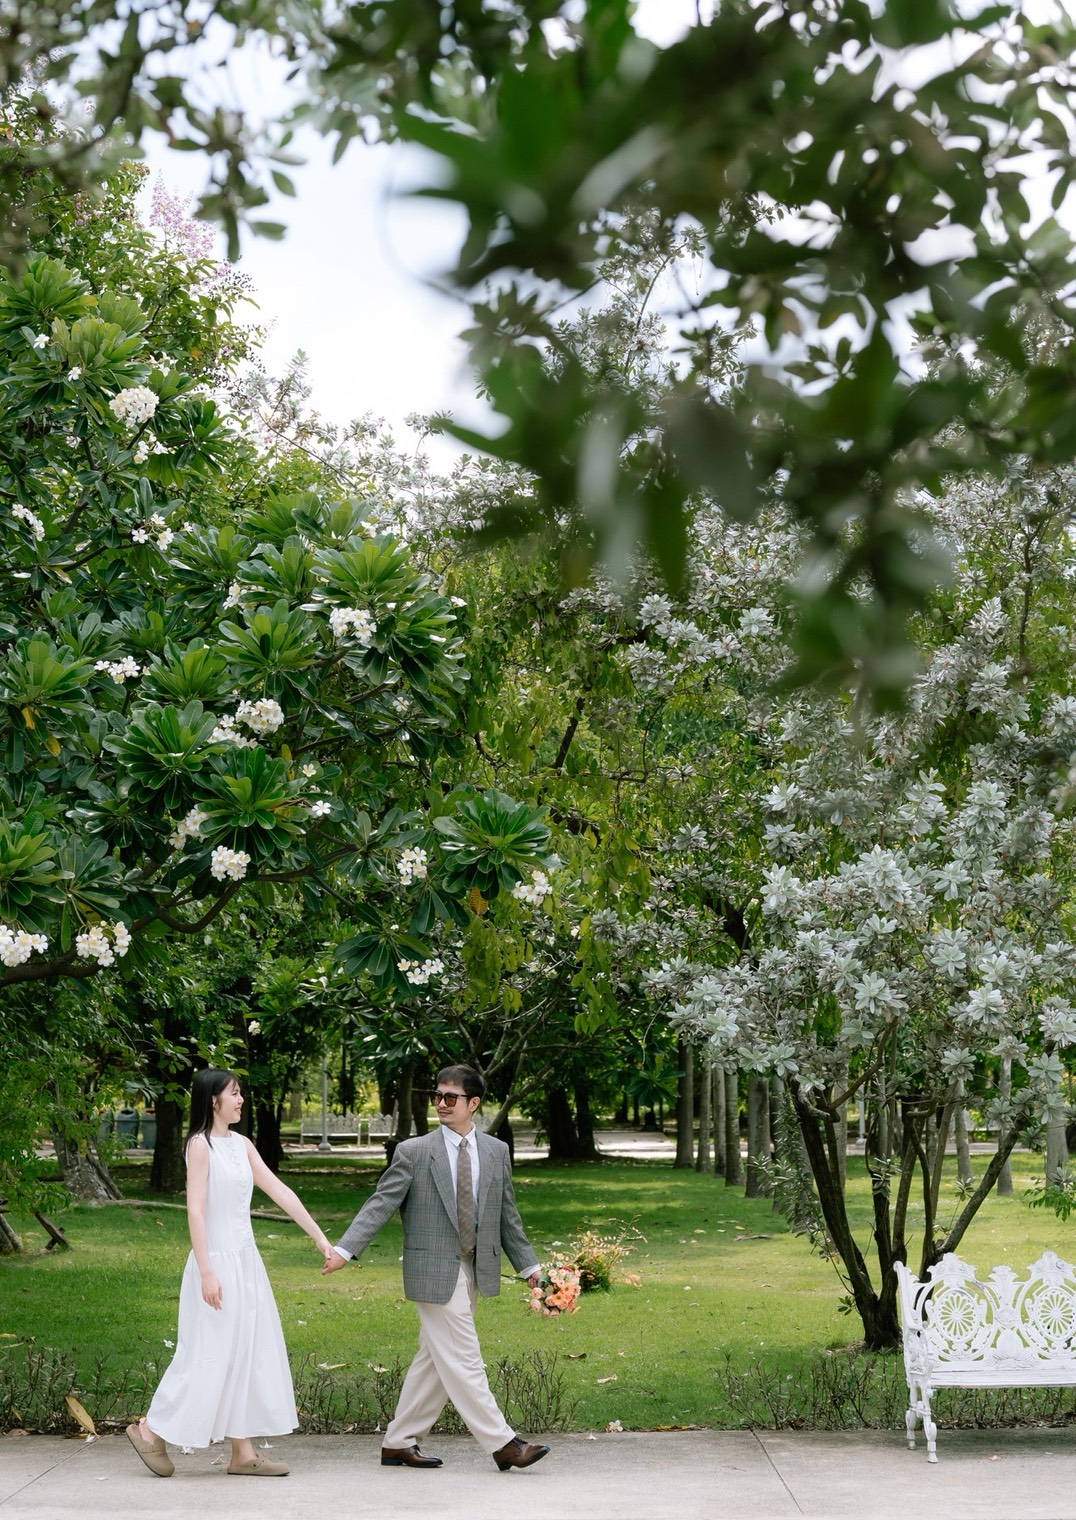
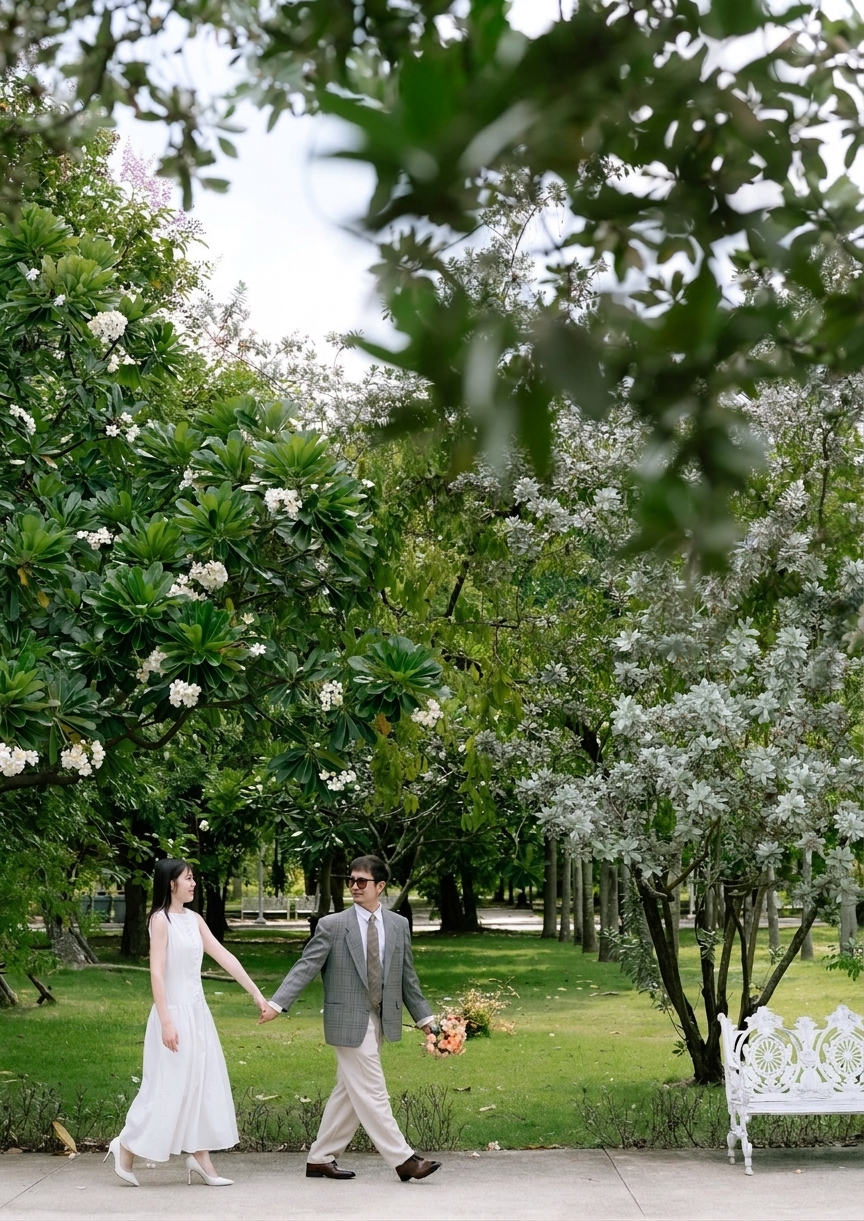
Update: Change Wedding Celebration video frame to French Louis Rococo Lace Frame

diff --git a/index.html b/index.html
@@ -284,13 +284,229 @@
         The Details
       </h2>
 
-      <!-- Baroque Gold Frame with Couple Photo / Video (Enlarged for Video Embed) -->
-      <div class="w-72 sm:w-80 max-w-[90%] mx-auto baroque-frame mb-6">
-        <div class="baroque-frame-inner">
-          <div class="w-full aspect-[4/5] overflow-hidden rounded bg-black/5 relative flex items-center justify-center">
-            <video id="details-featured-media" src="vdo/WeddingCelebration.MOV" autoplay muted loop playsinline controls class="w-full h-full object-cover"></video>
-          </div>
+      <!-- French Louis Lace Frame with Video Embed -->
+      <div class="louis-frame-wrapper mb-8">
+        
+        <!-- Video Element -->
+        <div class="louis-video-box">
+          <video id="details-featured-media" src="vdo/WeddingCelebration.MOV" autoplay muted loop playsinline controls class="w-full h-full object-cover"></video>
         </div>
+
+        <!-- SVG Louis Lace Ornate Frame -->
+        <svg class="louis-frame-svg" viewBox="0 0 350 423" fill="none" xmlns="http://www.w3.org/2000/svg">
+          <defs>
+            <!-- Rich Antique Gold Gradient -->
+            <linearGradient id="gold-louis-rich" x1="0%" y1="0%" x2="100%" y2="100%">
+              <stop offset="0%" stop-color="#FCF3DD"/>
+              <stop offset="20%" stop-color="#E5C78A"/>
+              <stop offset="45%" stop-color="#C5A059"/>
+              <stop offset="70%" stop-color="#8F6C2E"/>
+              <stop offset="90%" stop-color="#DEBE80"/>
+              <stop offset="100%" stop-color="#A5803B"/>
+            </linearGradient>
+
+            <linearGradient id="gold-highlight" x1="0%" y1="0%" x2="0%" y2="100%">
+              <stop offset="0%" stop-color="#FFFDF7"/>
+              <stop offset="100%" stop-color="#DFC48B"/>
+            </linearGradient>
+
+            <!-- Ivory French Lace Gradient -->
+            <linearGradient id="lace-ivory-grad" x1="0%" y1="0%" x2="100%" y2="100%">
+              <stop offset="0%" stop-color="#FFFFFF"/>
+              <stop offset="70%" stop-color="#FAF5EC"/>
+              <stop offset="100%" stop-color="#EFE6D5"/>
+            </linearGradient>
+
+            <!-- 3D Pearl Gradient -->
+            <radialGradient id="pearl-droplet-frame" cx="38%" cy="32%" r="65%">
+              <stop offset="0%" stop-color="#FFFFFF"/>
+              <stop offset="35%" stop-color="#FDFBF7"/>
+              <stop offset="70%" stop-color="#ECE2D4"/>
+              <stop offset="100%" stop-color="#A0907C"/>
+            </radialGradient>
+
+            <!-- Outward Scalloped Lace Motif (16px wide) -->
+            <g id="outward-lace-scallop">
+              <path d="M -8,0 C -8,-6 -4,-10 0,-10 C 4,-10 8,-6 8,0 Z" fill="url(#lace-ivory-grad)" stroke="#D8C3A3" stroke-width="0.6"/>
+              <circle cx="0" cy="-4" r="1.6" fill="none" stroke="#C5A869" stroke-width="0.4" stroke-dasharray="0.8,0.8"/>
+              <circle cx="0" cy="-4" r="0.7" fill="#C5A869"/>
+              <circle cx="-4" cy="-3" r="0.5" fill="#D5C7B5"/>
+              <circle cx="4" cy="-3" r="0.5" fill="#D5C7B5"/>
+            </g>
+
+            <!-- Authentic Rococo Louis Acanthus Corner Ornament -->
+            <g id="rococo-corner-flourish">
+              <path d="M 0,0 
+                       C -4,-12 -12,-20 -22,-24 
+                       C -30,-27 -38,-24 -40,-16 
+                       C -42,-8 -36,0 -26,2 
+                       C -18,4 -10,0 -8,-6 
+                       C -6,-12 -12,-16 -18,-14
+                       C -14,-18 -4,-18 2,-10
+                       C 6,-4 6,4 4,12
+                       C 2,20 -4,28 -14,32
+                       C -24,36 -32,32 -34,22
+                       C -36,12 -28,4 -20,6
+                       C -24,0 -28,-6 -24,-14
+                       C -20,-22 -8,-24 0,0 Z" 
+                    fill="url(#gold-louis-rich)" stroke="#6E501C" stroke-width="0.75"/>
+              <path d="M -2,-2 C -8,-14 -18,-20 -28,-22" fill="none" stroke="#FFFFFF" stroke-width="0.9" opacity="0.8"/>
+              <path d="M -1,2 C -5,12 -11,22 -20,26" fill="none" stroke="#FFFFFF" stroke-width="0.8" opacity="0.7"/>
+              <circle cx="-20" cy="-14" r="2.2" fill="#FCFAF7" stroke="#8F6C2E" stroke-width="0.6"/>
+              <circle cx="-14" cy="-20" r="1.5" fill="#C5A059"/>
+              <circle cx="-16" cy="18" r="2.2" fill="#FCFAF7" stroke="#8F6C2E" stroke-width="0.6"/>
+            </g>
+          </defs>
+
+          <!-- 1. Outer French Lace Scallop Fringe -->
+          <g id="outer-lace-fringe">
+            <!-- Top Edge Scallops -->
+            <g transform="translate(30, 20)">
+              <g transform="translate(18, 0)"><use href="#outward-lace-scallop"/></g>
+              <g transform="translate(34, 0)"><use href="#outward-lace-scallop"/></g>
+              <g transform="translate(50, 0)"><use href="#outward-lace-scallop"/></g>
+              <g transform="translate(66, 0)"><use href="#outward-lace-scallop"/></g>
+              <g transform="translate(82, 0)"><use href="#outward-lace-scallop"/></g>
+              <g transform="translate(98, 0)"><use href="#outward-lace-scallop"/></g>
+              <g transform="translate(114, 0)"><use href="#outward-lace-scallop"/></g>
+              <g transform="translate(130, 0)"><use href="#outward-lace-scallop"/></g>
+              <g transform="translate(146, 0)"><use href="#outward-lace-scallop"/></g>
+              <g transform="translate(162, 0)"><use href="#outward-lace-scallop"/></g>
+              <g transform="translate(178, 0)"><use href="#outward-lace-scallop"/></g>
+              <g transform="translate(194, 0)"><use href="#outward-lace-scallop"/></g>
+              <g transform="translate(210, 0)"><use href="#outward-lace-scallop"/></g>
+              <g transform="translate(226, 0)"><use href="#outward-lace-scallop"/></g>
+              <g transform="translate(242, 0)"><use href="#outward-lace-scallop"/></g>
+              <g transform="translate(258, 0)"><use href="#outward-lace-scallop"/></g>
+              <g transform="translate(272, 0)"><use href="#outward-lace-scallop"/></g>
+            </g>
+
+            <!-- Bottom Edge Scallops -->
+            <g transform="translate(30, 402.5)">
+              <g transform="translate(18, 0) rotate(180)"><use href="#outward-lace-scallop"/></g>
+              <g transform="translate(34, 0) rotate(180)"><use href="#outward-lace-scallop"/></g>
+              <g transform="translate(50, 0) rotate(180)"><use href="#outward-lace-scallop"/></g>
+              <g transform="translate(66, 0) rotate(180)"><use href="#outward-lace-scallop"/></g>
+              <g transform="translate(82, 0) rotate(180)"><use href="#outward-lace-scallop"/></g>
+              <g transform="translate(98, 0) rotate(180)"><use href="#outward-lace-scallop"/></g>
+              <g transform="translate(114, 0) rotate(180)"><use href="#outward-lace-scallop"/></g>
+              <g transform="translate(130, 0) rotate(180)"><use href="#outward-lace-scallop"/></g>
+              <g transform="translate(146, 0) rotate(180)"><use href="#outward-lace-scallop"/></g>
+              <g transform="translate(162, 0) rotate(180)"><use href="#outward-lace-scallop"/></g>
+              <g transform="translate(178, 0) rotate(180)"><use href="#outward-lace-scallop"/></g>
+              <g transform="translate(194, 0) rotate(180)"><use href="#outward-lace-scallop"/></g>
+              <g transform="translate(210, 0) rotate(180)"><use href="#outward-lace-scallop"/></g>
+              <g transform="translate(226, 0) rotate(180)"><use href="#outward-lace-scallop"/></g>
+              <g transform="translate(242, 0) rotate(180)"><use href="#outward-lace-scallop"/></g>
+              <g transform="translate(258, 0) rotate(180)"><use href="#outward-lace-scallop"/></g>
+              <g transform="translate(272, 0) rotate(180)"><use href="#outward-lace-scallop"/></g>
+            </g>
+
+            <!-- Left Edge Scallops -->
+            <g transform="translate(20, 30)">
+              <g transform="translate(0, 18) rotate(-90)"><use href="#outward-lace-scallop"/></g>
+              <g transform="translate(0, 34) rotate(-90)"><use href="#outward-lace-scallop"/></g>
+              <g transform="translate(0, 50) rotate(-90)"><use href="#outward-lace-scallop"/></g>
+              <g transform="translate(0, 66) rotate(-90)"><use href="#outward-lace-scallop"/></g>
+              <g transform="translate(0, 82) rotate(-90)"><use href="#outward-lace-scallop"/></g>
+              <g transform="translate(0, 98) rotate(-90)"><use href="#outward-lace-scallop"/></g>
+              <g transform="translate(0, 114) rotate(-90)"><use href="#outward-lace-scallop"/></g>
+              <g transform="translate(0, 130) rotate(-90)"><use href="#outward-lace-scallop"/></g>
+              <g transform="translate(0, 146) rotate(-90)"><use href="#outward-lace-scallop"/></g>
+              <g transform="translate(0, 162) rotate(-90)"><use href="#outward-lace-scallop"/></g>
+              <g transform="translate(0, 178) rotate(-90)"><use href="#outward-lace-scallop"/></g>
+              <g transform="translate(0, 194) rotate(-90)"><use href="#outward-lace-scallop"/></g>
+              <g transform="translate(0, 210) rotate(-90)"><use href="#outward-lace-scallop"/></g>
+              <g transform="translate(0, 226) rotate(-90)"><use href="#outward-lace-scallop"/></g>
+              <g transform="translate(0, 242) rotate(-90)"><use href="#outward-lace-scallop"/></g>
+              <g transform="translate(0, 258) rotate(-90)"><use href="#outward-lace-scallop"/></g>
+              <g transform="translate(0, 274) rotate(-90)"><use href="#outward-lace-scallop"/></g>
+              <g transform="translate(0, 290) rotate(-90)"><use href="#outward-lace-scallop"/></g>
+              <g transform="translate(0, 306) rotate(-90)"><use href="#outward-lace-scallop"/></g>
+              <g transform="translate(0, 322) rotate(-90)"><use href="#outward-lace-scallop"/></g>
+              <g transform="translate(0, 338) rotate(-90)"><use href="#outward-lace-scallop"/></g>
+              <g transform="translate(0, 348) rotate(-90)"><use href="#outward-lace-scallop"/></g>
+            </g>
+
+            <!-- Right Edge Scallops -->
+            <g transform="translate(330, 30)">
+              <g transform="translate(0, 18) rotate(90)"><use href="#outward-lace-scallop"/></g>
+              <g transform="translate(0, 34) rotate(90)"><use href="#outward-lace-scallop"/></g>
+              <g transform="translate(0, 50) rotate(90)"><use href="#outward-lace-scallop"/></g>
+              <g transform="translate(0, 66) rotate(90)"><use href="#outward-lace-scallop"/></g>
+              <g transform="translate(0, 82) rotate(90)"><use href="#outward-lace-scallop"/></g>
+              <g transform="translate(0, 100) rotate(90)"><use href="#outward-lace-scallop"/></g>
+              <g transform="translate(0, 116) rotate(90)"><use href="#outward-lace-scallop"/></g>
+              <g transform="translate(0, 132) rotate(90)"><use href="#outward-lace-scallop"/></g>
+              <g transform="translate(0, 148) rotate(90)"><use href="#outward-lace-scallop"/></g>
+              <g transform="translate(0, 164) rotate(90)"><use href="#outward-lace-scallop"/></g>
+              <g transform="translate(0, 180) rotate(90)"><use href="#outward-lace-scallop"/></g>
+              <g transform="translate(0, 196) rotate(90)"><use href="#outward-lace-scallop"/></g>
+              <g transform="translate(0, 212) rotate(90)"><use href="#outward-lace-scallop"/></g>
+              <g transform="translate(0, 228) rotate(90)"><use href="#outward-lace-scallop"/></g>
+              <g transform="translate(0, 244) rotate(90)"><use href="#outward-lace-scallop"/></g>
+              <g transform="translate(0, 260) rotate(90)"><use href="#outward-lace-scallop"/></g>
+              <g transform="translate(0, 276) rotate(90)"><use href="#outward-lace-scallop"/></g>
+              <g transform="translate(0, 292) rotate(90)"><use href="#outward-lace-scallop"/></g>
+              <g transform="translate(0, 308) rotate(90)"><use href="#outward-lace-scallop"/></g>
+              <g transform="translate(0, 324) rotate(90)"><use href="#outward-lace-scallop"/></g>
+              <g transform="translate(0, 340) rotate(90)"><use href="#outward-lace-scallop"/></g>
+              <g transform="translate(0, 356) rotate(90)"><use href="#outward-lace-scallop"/></g>
+            </g>
+          </g>
+
+          <!-- 2. Gilded Beveled Louis Moldings -->
+          <rect x="20" y="20" width="310" height="382.5" rx="8" ry="8" fill="none" stroke="url(#gold-louis-rich)" stroke-width="8"/>
+          <rect x="24" y="24" width="302" height="374.5" rx="6" ry="6" fill="none" stroke="url(#gold-highlight)" stroke-width="1.2" opacity="0.9"/>
+          <rect x="28" y="28" width="294" height="366.5" rx="5" ry="5" fill="none" stroke="#664D1C" stroke-width="1.2"/>
+          <rect x="29" y="29" width="292" height="364.5" rx="4" ry="4" fill="none" stroke="#FCFAF7" stroke-width="1" stroke-dasharray="2,2"/>
+
+          <!-- 3. Four Ornate Rococo Louis Acanthus Flourishes -->
+          <g transform="translate(24, 24)"><use href="#rococo-corner-flourish"/></g>
+          <g transform="translate(326, 24) scale(-1, 1)"><use href="#rococo-corner-flourish"/></g>
+          <g transform="translate(24, 398.5) scale(1, -1)"><use href="#rococo-corner-flourish"/></g>
+          <g transform="translate(326, 398.5) scale(-1, -1)"><use href="#rococo-corner-flourish"/></g>
+
+          <!-- 4. Top Royal Louis Cartouche & Teardrop Pearl Pendant -->
+          <g id="top-royal-crest" transform="translate(175, 20)">
+            <path d="M -26,0 
+                     C -24,-12 -16,-20 0,-22 
+                     C 16,-20 24,-12 26,0 
+                     C 18,-3 10,1 0,5 
+                     C -10,1 -18,-3 -26,0 Z" 
+                  fill="url(#gold-louis-rich)" stroke="#664D1C" stroke-width="0.8"/>
+            <line x1="0" y1="-21" x2="0" y2="4" stroke="#FFFDF7" stroke-width="0.8"/>
+            <path d="M -9,-18 C -5,-9 -3,-3 -2,3" stroke="#FFFDF7" stroke-width="0.7"/>
+            <path d="M 9,-18 C 5,-9 3,-3 2,3" stroke="#FFFDF7" stroke-width="0.7"/>
+            <path d="M -18,-12 C -12,-5 -7,0 -4,3" stroke="#FFFDF7" stroke-width="0.6"/>
+            <path d="M 18,-12 C 12,-5 7,0 4,3" stroke="#FFFDF7" stroke-width="0.6"/>
+
+            <!-- Dangling Teardrop Pearl Pendant -->
+            <g transform="translate(0, 4)">
+              <path d="M 0,0 
+                       C -3.5,4 -5.5,8 -4,12 
+                       C -2.5,15.5 2.5,15.5 4,12 
+                       C 5.5,8 3.5,4 0,0 Z" 
+                    fill="url(#pearl-droplet-frame)" stroke="#D5C5B0" stroke-width="0.5"/>
+              <ellipse cx="-1.2" cy="7" rx="0.9" ry="2" fill="#FFFFFF" opacity="0.9" transform="rotate(-15 -1.2 7)"/>
+              <circle cx="-0.8" cy="11" r="0.7" fill="#FFFFFF" opacity="0.6"/>
+              <ellipse cx="0" cy="0.5" rx="1.5" ry="0.8" fill="#C5A059"/>
+            </g>
+          </g>
+
+          <!-- 5. Bottom Carved Rococo Scroll Medallion -->
+          <g id="bottom-royal-crest" transform="translate(175, 402.5)">
+            <path d="M -20,0 
+                     C -16,10 -8,15 0,16 
+                     C 8,15 16,10 20,0 
+                     C 12,3 6,-1 0,-4 
+                     C -6,-1 -12,3 -20,0 Z" 
+                  fill="url(#gold-louis-rich)" stroke="#664D1C" stroke-width="0.8"/>
+            <circle cx="0" cy="6" r="2.8" fill="url(#pearl-droplet-frame)" stroke="#C5A059" stroke-width="0.5"/>
+            <circle cx="-0.8" cy="5" r="0.8" fill="#FFFFFF"/>
+          </g>
+
+        </svg>
       </div>
 
       <!-- Names & Date -->

diff --git a/css/style.css b/css/style.css
@@ -134,6 +134,36 @@ body {
   border-radius: 4px;
 }
 
+/* French Louis Lace Frame for Wedding Celebration Video */
+.louis-frame-wrapper {
+  position: relative;
+  width: 290px;
+  max-width: 86%;
+  margin: 0 auto;
+}
+
+.louis-video-box {
+  position: relative;
+  width: 100%;
+  aspect-ratio: 4/5;
+  border-radius: 6px;
+  overflow: hidden;
+  background: #111;
+  z-index: 2;
+  box-shadow: inset 0 0 12px rgba(0,0,0,0.5);
+}
+
+.louis-frame-svg {
+  position: absolute;
+  top: -30px;
+  left: -30px;
+  width: calc(100% + 60px);
+  height: calc(100% + 60px);
+  pointer-events: none;
+  z-index: 10;
+  filter: drop-shadow(0 14px 28px rgba(45, 43, 40, 0.28));
+}
+
 /* Draped Pearl Necklace */
 .pearl-string {
   position: relative;
